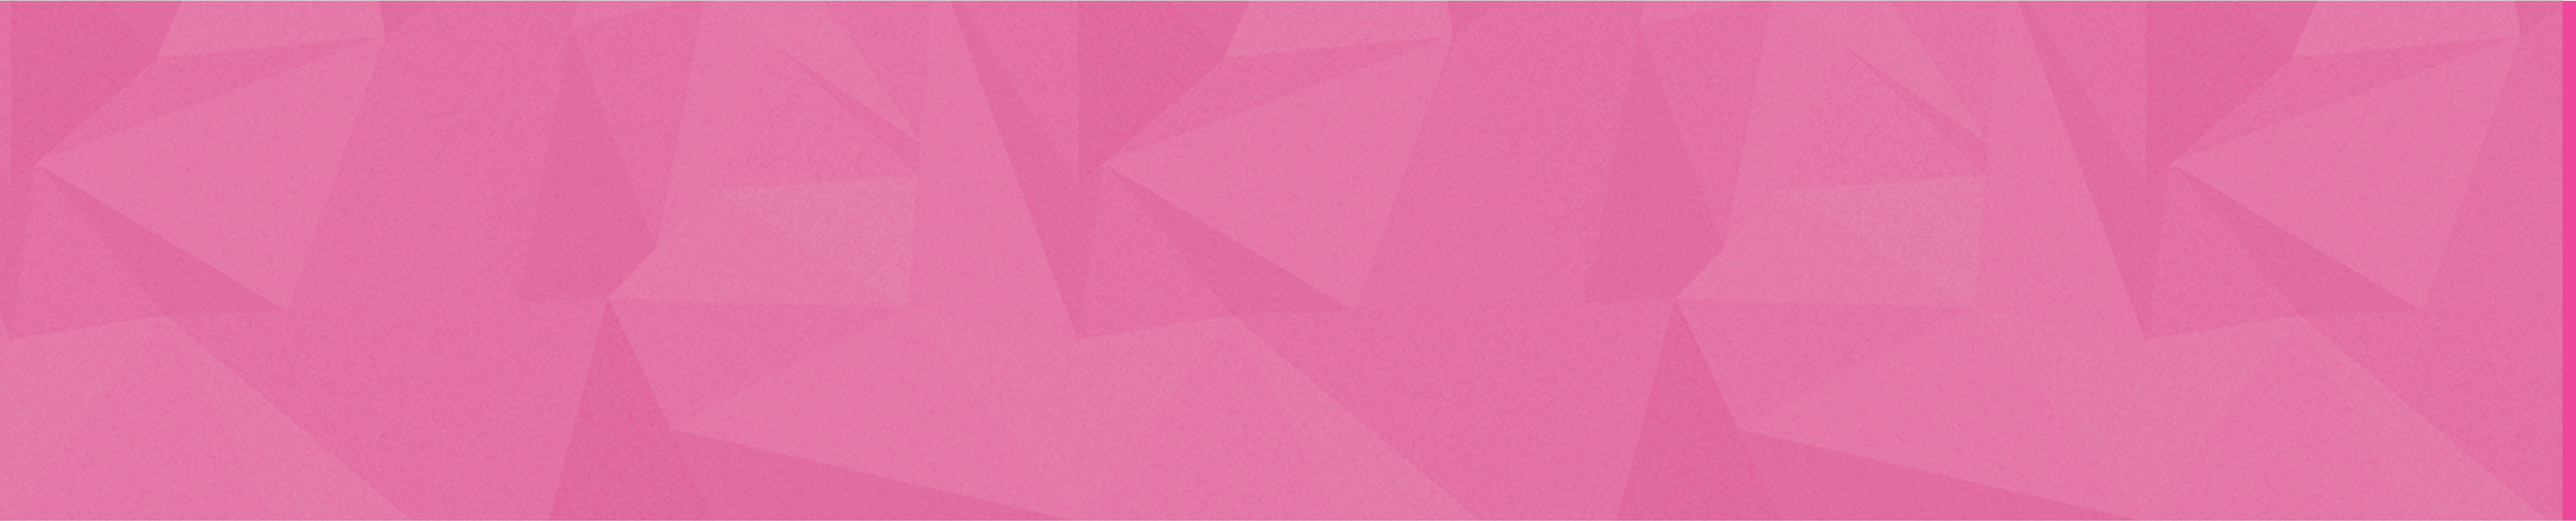
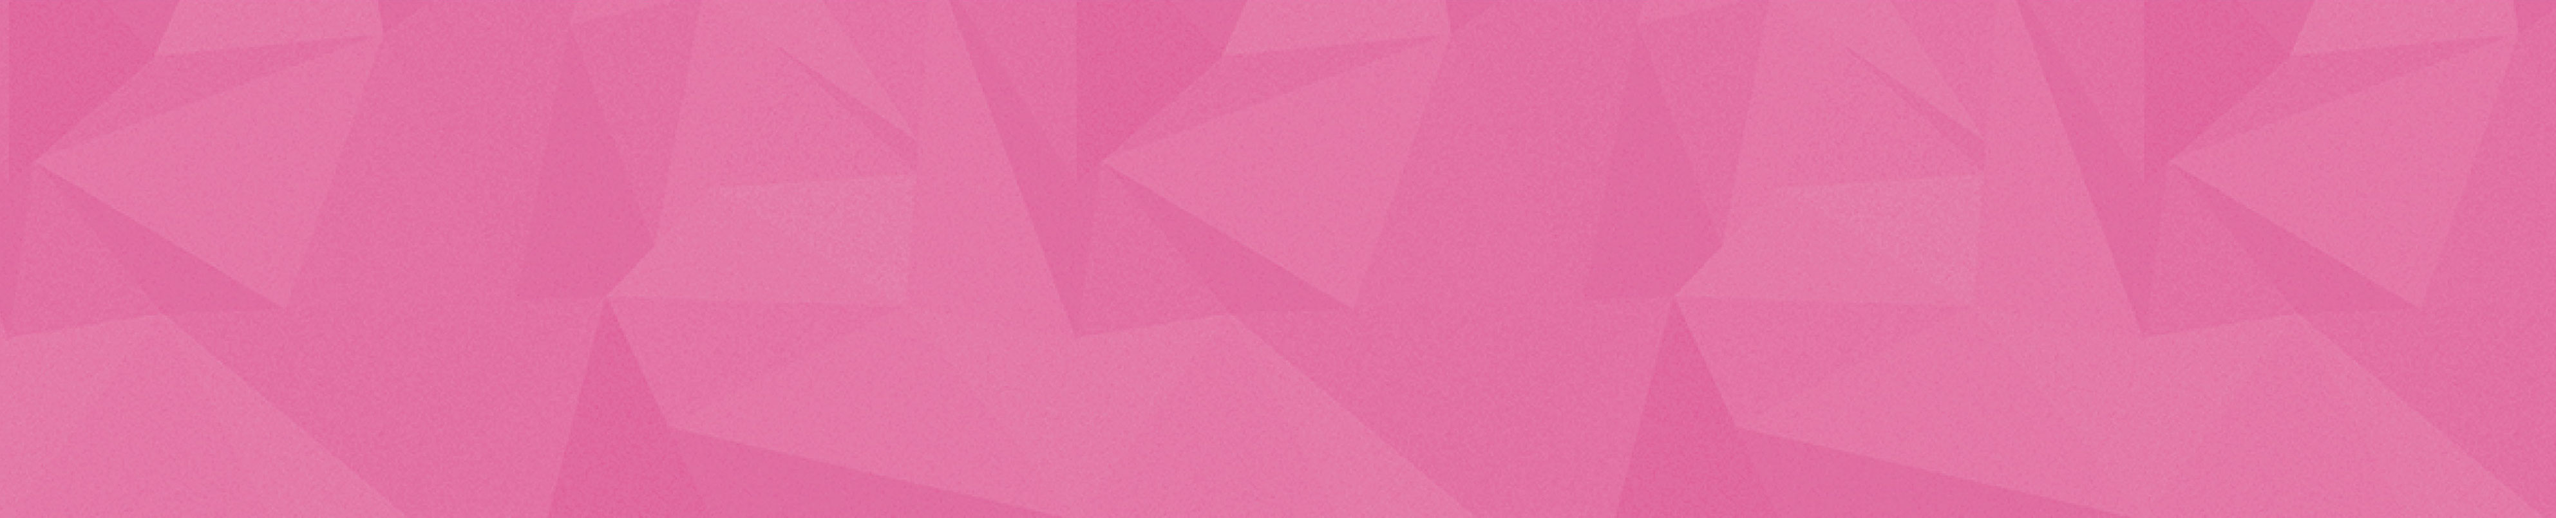
Copy and FED changes

Changed region(s): [[0.0, 0.0, 1.0, 1.0]]

diff --git a/public/css/styles.css b/public/css/styles.css
@@ -69,7 +69,7 @@ a {
 }
 
 body {
-  background: #2c3e50;
+  background: #fff;
   color: #777;
   font-family: Gibson;
   font-size: 24px;
@@ -81,7 +81,11 @@ body {
   position: relative;
 }
 
-.wrapper,
+.header,
+.hero,
+.intro,
+.call-to-action,
+.examples,
 .footer {
   margin: 0 auto;
   width: 1100px;
@@ -160,13 +164,16 @@ body {
 }
 
 .hero {
-  background: url('../images/hero.jpg');
-  background-size: 1100px 495px;
-  background-repeat:no-repeat;
   height: 495px;
   overflow: hidden;
   padding: 110px 150px;
   text-align: center;
+}
+
+.hero-image {
+  position: absolute;
+  z-index: -1;
+  min-width: 1100px;
 }
 
 .hero h1 {
@@ -187,6 +194,10 @@ body {
   opacity: 0.92;
 }
 
+.intro-wrapper {
+  background: #fff;
+}
+
 .intro {
   font-family: GibsonLight;
   font-weight: 300;
@@ -203,9 +214,14 @@ body {
   margin: 35px 0;
 }
 
+.call-to-action-image {
+  position: absolute;
+  z-index: -1;
+  min-width: 1100px;
+}
+
 .call-to-action {
-  background: url("../images/banner.jpg");
-  background-size: 1110px 230px;
+  position: relative;
   background-repeat:no-repeat;
   overflow: hidden;
   padding: 0 250px 30px;
@@ -228,6 +244,10 @@ body {
 
 .call-to-action .btn--pink {
   float: left;
+}
+
+.examples-wrapper {
+  background: #fff;
 }
 
 .examples {
@@ -274,6 +294,10 @@ body {
 
 .examples .btn {
   padding: 0 35px;
+}
+
+.footer-wrapper {
+  background: #2c3e50;
 }
 
 .footer {
@@ -345,19 +369,17 @@ body {
 }
 
 .modal-close {
-  background: url('../images/close.png') 50% 50% no-repeat;
+  background: url('../images/modal-close.png') 50% 50% no-repeat;
   border: 1px solid #777;
   border-radius: 50%;
   box-shadow: inset 0 0 0 4px #fff;
   cursor: pointer;
-  font-family: GibsonLight;
-  font-size: 30px;
   height: 45px;
   line-height: 45px;
   overflow: hidden;
   position: absolute;
   text-align: center;
-  text-indent: 150%;
+  text-indent: 500%;
   top: 10px;
   right: 10px;
   width: 45px;
@@ -374,7 +396,6 @@ body {
 
 .modal p {
   margin: 20px 0;
-  width: 570px;
 }
 
 .modal img {
@@ -387,7 +408,7 @@ body {
 }
 
 .closer .btn {
-  margin: 45px 0;
+  margin: 35px 0;
   font-family: GibsonBold;
   font-size: 17px;
   line-height: 60px;
